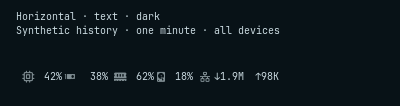
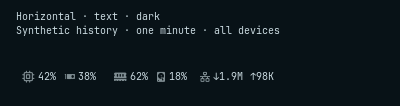
fix: keep bar readings paired and size GPU values by vendor

diff --git a/tests/qs/bar-ui.qml b/tests/qs/bar-ui.qml
@@ -33,6 +33,7 @@ ShellRoot {
       host.vertical = false; host.barSize = 26
       shared.gpuTopologyReady = true; shared.gpuListFailed = false
       shared.discreteGpuAvailable = true; shared.diskAvailable = true
+      shared.gpu = { vendor: "intel" }; shared.streamLive = true
       shared.applySettings({ segments: Model.BAR_SEGMENTS })
       shared.cpuPct = { nonIdle: 42 }; shared.memComp = { usedPct: 62 }
       shared.gpuDisplay = { pct: 38, estimated: false }; shared.diskRates = { utilPct: 18 }
@@ -151,11 +152,71 @@ ShellRoot {
           if (Math.abs(item.x-positions[i].x)>0.5 || Math.abs(item.y-positions[i].y)>0.5)
             console.error("QBARUI cell moved " + JSON.stringify({ metric: metric, value: value, before: positions[i], after: [item.x,item.y] }))
           fuzzyCompare(item.x, positions[i].x, 0.5); fuzzyCompare(item.y, positions[i].y, 0.5)
-          if (metric === "net") { assertFits(findChild(item, "barDown")); assertFits(findChild(item, "barUp")) }
-          else assertFits(findChild(item, "barValue"))
+          var readings = metric === "net" ? [findChild(item, "barDown"), findChild(item, "barUp")] : [findChild(item, "barValue")]
+          for (var reading of readings) {
+            assertFits(reading)
+            compare(reading.horizontalAlignment, data.vertical ? Text.AlignHCenter : Text.AlignLeft,
+              "values stay beside their own label/trend, with slack after the reading")
+          }
           if (data.vertical) verify(item.width <= host.barSize)
           if (data.style === "graph-text") verify(trend(first, metric).width <= (data.vertical ? host.barSize : Commons.Style.space(64)))
         }
+      }
+    }
+    function test_gpu_vendor_reservation_and_uniform_vertical_percentages_data() {
+      var cases = []
+      for (var style of ["text", "graph-text"]) for (var vertical of [false, true])
+        cases.push({ tag: style + " " + vertical, style: style, vertical: vertical })
+      return cases
+    }
+    function test_gpu_vendor_reservation_and_uniform_vertical_percentages(data) {
+      host.vertical = data.vertical
+      shared.persistSettings({ barStyle: data.style })
+      for (var size of [{ strip: 26, base: 12 }, { strip: 28, base: 12 }, { strip: 34, base: 16 }]) {
+        Commons.Style.applyShellValues({ "font.base-size": size.base })
+        host.barSize = size.strip
+        var dedicatedWidth = null
+        for (var vendor of ["amd", "nvidia", "intel"]) {
+          shared.gpu = { vendor: vendor }
+          shared.gpuDisplay = { pct: 100, estimated: false }
+          wait(vendor === "amd" || (!data.vertical && vendor === "intel") ? 200 : 20)
+          var gpuValue = findChild(cell(first, "gpu"), "barValue")
+          var cpuValue = findChild(cell(first, "cpu"), "barValue")
+          if (data.vertical) {
+            for (var metric of ["cpu", "mem", "disk"])
+              compare(findChild(cell(first, metric), "barValue").font.pixelSize, gpuValue.font.pixelSize,
+                "visible percentage cells use one font size")
+            if (vendor !== "intel") compare(gpuValue.font.pixelSize, Commons.Style.font.caption,
+              "AMD/NVIDIA do not shrink to reserve an unavailable estimate prefix")
+          } else if (vendor !== "intel") {
+            compare(gpuValue.width, cpuValue.width, "only Intel needs a wider percentage slot")
+            if (dedicatedWidth === null) dedicatedWidth = first.implicitWidth
+            else compare(first.implicitWidth, dedicatedWidth)
+          } else verify(gpuValue.width > cpuValue.width)
+          var width = first.implicitWidth, fontSize = gpuValue.font.pixelSize
+          var positions = first.visibleBarCells.map(function (metric) {
+            var item = cell(first, metric); return { x: item.x, y: item.y }
+          })
+          for (var pct of [null, 9, 99, 100]) {
+            for (var estimated of vendor === "intel" ? [false, true] : [false]) {
+              shared.gpuDisplay = pct === null ? null : { pct: pct, estimated: estimated }
+              wait(5)
+              compare(first.implicitWidth, width); compare(gpuValue.font.pixelSize, fontSize)
+              assertFits(gpuValue)
+              for (var i = 0; i < first.visibleBarCells.length; i++) {
+                var item = cell(first, first.visibleBarCells[i])
+                fuzzyCompare(item.x, positions[i].x, 0.5); fuzzyCompare(item.y, positions[i].y, 0.5)
+              }
+            }
+          }
+        }
+        // Intel remains selected, but a disabled GPU must not reduce the
+        // remaining percentages to make room for its estimate prefix.
+        shared.persistSettings({ segments: ["cpu", "memory", "disk", "network"] })
+        wait(20)
+        compare(findChild(cell(first, "cpu"), "barValue").font.pixelSize, Commons.Style.font.caption)
+        shared.persistSettings({ segments: Model.BAR_SEGMENTS })
+        wait(20)
       }
     }
     function test_icon_only_and_hardware_return_keep_order() {

diff --git a/BarWidget.qml b/BarWidget.qml
@@ -211,6 +211,10 @@ BarWidget {
   readonly property real outerPad: Commons.Style.spaceReal(6)
   readonly property int verticalSlot: root.bar ? root.bar.barSize : Commons.Style.bar.sizeVertical
   readonly property var trendPalette: Model.seriesPalette(String(Commons.Color.accent), String(barUrgent), String(barFg), String(barBg))
+  // Only Intel's frequency fallback can display an estimated percentage.
+  // Reserve it by device capability, so a measured/estimated sample change
+  // does not resize the cell.
+  readonly property bool reserveEstimatePrefix: root.gpu ? root.gpu.vendor === "intel" : false
 
   FontMetrics { id: captionFm; font.family: button.fontFamily; font.pixelSize: Commons.Style.font.caption; font.features: ({ "tnum": 1 }) }
   FontMetrics { id: glyphFm; font.family: button.fontFamily; font.pixelSize: root.glyphFontSize }
@@ -237,7 +241,7 @@ BarWidget {
   function valueReserveFor(metric) {
     if (captionFm.font.pixelSize <= 0) return 0
     if (metric === "net") return root.vertical ? rateReserve : rateReserve * 2 + rateGap
-    return Math.ceil(captionFm.advanceWidth(metric === "gpu" ? "~100%" : "100%"))
+    return Math.ceil(captionFm.advanceWidth(metric === "gpu" && reserveEstimatePrefix ? "~100%" : "100%"))
   }
   function cellReserveFor(metric) {
     var w = valueReserveFor(metric), labelWidth = labelWidthFor(metric)
@@ -247,8 +251,12 @@ BarWidget {
   }
   function valueFontSizeFor(metric) {
     if (!root.vertical) return Commons.Style.font.caption
+    // Keep every visible percentage at the same size. A hidden Intel GPU
+    // must not make CPU/Memory/Drives text smaller.
+    var reserve = metric === "net" ? rateReserve : valueReserveFor(
+      reserveEstimatePrefix && visibleBarCells.indexOf("gpu") >= 0 ? "gpu" : "cpu")
     return Math.max(1, Math.min(Commons.Style.font.caption,
-      Math.floor(Commons.Style.font.caption * Math.max(1, verticalSlot) / valueReserveFor(metric))))
+      Math.floor(Commons.Style.font.caption * Math.max(1, verticalSlot) / reserve)))
   }
   readonly property real reservedWidth: {
     var cells = root.visibleBarCells, width = 0
@@ -487,7 +495,7 @@ BarWidget {
         font.pixelSize: root.valueFontSizeFor(cell.metric)
         font.features: ({ "tnum": 1 })
         anchors.fill: parent
-        horizontalAlignment: root.vertical ? Text.AlignHCenter : Text.AlignRight
+        horizontalAlignment: root.vertical ? Text.AlignHCenter : Text.AlignLeft
         verticalAlignment: Text.AlignVCenter
         Behavior on color { ColorAnimation { duration: 320 } }
       }
@@ -502,7 +510,7 @@ BarWidget {
         font.features: ({ "tnum": 1 })
         width: root.vertical ? parent.width : root.rateReserve
         height: root.lineBoxHeight
-        horizontalAlignment: root.vertical ? Text.AlignHCenter : Text.AlignRight
+        horizontalAlignment: root.vertical ? Text.AlignHCenter : Text.AlignLeft
         verticalAlignment: Text.AlignVCenter
       }
       Text {
@@ -518,7 +526,7 @@ BarWidget {
         y: root.vertical ? root.lineBoxHeight : 0
         width: root.vertical ? parent.width : root.rateReserve
         height: root.lineBoxHeight
-        horizontalAlignment: root.vertical ? Text.AlignHCenter : Text.AlignRight
+        horizontalAlignment: root.vertical ? Text.AlignHCenter : Text.AlignLeft
         verticalAlignment: Text.AlignVCenter
       }
     }

diff --git a/tests/qs/bar-render.qml b/tests/qs/bar-render.qml
@@ -15,6 +15,7 @@ ShellRoot {
   property bool vertical: Quickshell.env("QUADRANT_RENDER_VERTICAL") === "1"
   property bool showSettings: Quickshell.env("QUADRANT_RENDER_TAB") === "settings"
   property bool missingGpu: Quickshell.env("QUADRANT_RENDER_MISSING_GPU") === "1"
+  property string gpuVendor: Model.parseEnumSetting(Quickshell.env("QUADRANT_RENDER_GPU_VENDOR"), ["intel", "amd", "nvidia"], "intel")
   property real stripSize: Number(Quickshell.env("QUADRANT_RENDER_BAR_SIZE")) || 26
   property var order: Model.barOrderFromSetting(Quickshell.env("QUADRANT_RENDER_ORDER") || "network,cpu,gpu,memory,disk")
   property int graphWidth: Number(Quickshell.env("QUADRANT_RENDER_GRAPH_WIDTH")) || 32
@@ -25,6 +26,7 @@ ShellRoot {
   BarFixture {
     id: shared
     discreteGpuAvailable: !harness.missingGpu
+    gpu: ({ vendor: harness.gpuVendor })
     settingsRaw: ({ barStyle: harness.style, barOrder: harness.order, barGraphWidth: harness.graphWidth,
       barLabels: harness.labels, segments: ["cpu", "gpu", "memory", "disk", "network"] })
   }
@@ -88,8 +90,12 @@ ShellRoot {
     id: captureTimer
     interval: harness.duration > 0 ? harness.duration * 1000 : 300
     onTriggered: {
+      var valueFonts = {}
+      if (typeof slot.valueFontSizeFor === "function")
+        for (var metric of slot.visibleBarCells) valueFonts[metric] = slot.valueFontSizeFor(metric)
       console.log("BAR_LAYOUT " + JSON.stringify({ width: slot.implicitWidth, height: slot.implicitHeight, cells: slot.visibleBarCells,
-        viewers: Object.keys(shared.viewers).length, storeTries: slot.storeTries, font: Commons.Style.font.caption }))
+        viewers: Object.keys(shared.viewers).length, storeTries: slot.storeTries, font: Commons.Style.font.caption,
+        gpuVendor: harness.gpuVendor, valueFonts: valueFonts }))
       win.contentItem.grabToImage(function (result) { result.saveToFile(harness.outPath); Qt.quit() })
     }
   }

diff --git a/docs/BAR_TRENDS.md b/docs/BAR_TRENDS.md
@@ -12,16 +12,23 @@ does not change the bar's minute window.
 ## Layout decisions
 
 Each segment reserves its widest value, including `100%`, the estimated GPU
-prefix, and bounded network rates. Both outer width and internal cell positions
-remain steady as samples change. A style, label, font, spacing, or enabled-set
-change can resize the widget. Graphs default to 32 logical pixels and are
-bounded to 16–64 before shell spacing is applied.
+prefix for Intel, and bounded network rates. Horizontal values align left
+beside their own glyph or trend, with unused space after the reading. A digit
+count change can move the percent sign within its slot; outer width and cell
+positions remain steady. A style, label, font, spacing, enabled-set, or selected
+GPU vendor change can resize the widget. Graphs default to 32 logical pixels
+and are bounded to 16–64 before shell spacing is applied.
 
 Vertical bars place each trend above its value and clamp its width to the
 strip. Network keeps separate down/up lines with complete units. A fixed font
 size based on the widest possible reading fits those values into the strip;
-it does not resize on each sample. At the captured 26 px strip, percentage
-values use 10 px text and network values use 8 px text.
+it does not resize on each sample. All visible percentage cells share one
+font size. A visible Intel GPU reserves `~100%`, including while its current
+reading is measured or missing; AMD and NVIDIA reserve `100%`. A hidden Intel
+GPU does not reduce the remaining cells' font size. In the captured 26 px strip
+with Intel selected, percentage and network values use 8 px text. With AMD or
+NVIDIA, percentages use 10 px and network values use 8 px. At the shell's
+default 28 px strip, those sizes are 9/9 px for Intel and 10/9 px for AMD/NVIDIA.
 
 The saved order contains all five resources independently of membership and
 hardware availability. Missing GPU/Drives cells disappear without erasing
@@ -45,10 +52,12 @@ harness. Click an image for its original size.
 
 | Style | Widget size | Capture |
 | --- | --- | --- |
-| Text | 267 × 26 px | [![Five segments, text only](screenshots/bar-text.png)](screenshots/bar-text.png) |
-| Graph + text | 442 × 26 px | [![Five segments with minute trends](screenshots/bar-trends.png)](screenshots/bar-trends.png) |
+| Text | 269 × 26 px | [![Five segments, text only](screenshots/bar-text.png)](screenshots/bar-text.png) |
+| Graph + text | 444 × 26 px | [![Five segments with minute trends](screenshots/bar-trends.png)](screenshots/bar-trends.png) |
 
-The vertical light example keeps both network units visible. The fallback
+The vertical light example uses Intel and keeps both network units visible.
+An [AMD vertical capture](screenshots/bar-vertical-amd.png) shows full-size
+percentage text when no estimate prefix is needed. The fallback
 example saves Network, Drives, CPU, GPU, Memory; with GPU absent, the visible
 order is Network, Drives, CPU, Memory, with one Drives cell.
 
@@ -63,7 +72,9 @@ The visual review covered dark, light, and monochrome palettes; both styles
 and orientations; present/absent GPU; and 16/64 px graph widths (48 captures),
 plus default-width, 1.25×/2× scaling, letter/no-label, and two-widget examples.
 Native interaction tests separately check font size 18 and spacing scales
-1/1.5/2, fixed positions, full value fit, and settings controls.
+1/1.5/2, fixed positions, full value fit, and settings controls. Vendor fixtures
+also cover both styles and orientations, 26/28/34 px strips, and a larger font,
+including measured/estimated transitions and a disabled Intel GPU.
 
 ## Rendering observations
 
@@ -71,23 +82,25 @@ Recorded 19 October 2026 on an Intel Core Ultra 9 185H, x86-64, Quickshell
 0.3.2 and Qt 6.12, using Qt's offscreen platform. Each case uses identical
 synthetic minute histories, five segments, canonical order, one-second
 updates, a three-second warmup, and a 10.01 s measurement. Runs were sequential.
-The baseline is the merged text widget at `a260bf2`; the model and harness
-remain identical across cases. The harness includes a hidden settings view
-in every case, so RSS is the whole Qt/harness process, not widget allocation.
+The baseline is the merged text widget at `a260bf2`; the feature measurements
+include the alignment and vendor-sizing corrections above. The model and
+harness remain identical across cases. The harness includes a hidden settings
+view in every case, so RSS includes the whole Qt/harness process.
 
 | Case | CPU time | One CPU core | Peak RSS | Peak child processes |
 | --- | --- | --- | --- | --- |
-| Merged text baseline | 0.01 s | 0.10% | 124.17 MiB | 0 |
-| Current text | 0.01 s | 0.10% | 121.54 MiB | 0 |
-| One graph widget | 0.02 s | 0.20% | 118.05 MiB | 0 |
-| Two graph widgets, shared service | 0.03 s | 0.30% | 126.57 MiB | 0 |
+| Merged text baseline | 0.01 s | 0.10% | 115.84 MiB | 0 |
+| Current text | 0.00 s | 0.00% | 120.00 MiB | 0 |
+| One graph widget | 0.02 s | 0.20% | 126.49 MiB | 0 |
+| Two graph widgets, shared service | 0.03 s | 0.30% | 126.83 MiB | 0 |
 
 The local comparison budget for future runs on this fixture and machine is
 less than 1% of one core at 1 Hz, no added child processes, and at most 10 MiB
 RSS growth for the second graph widget. These observations fit that budget;
-CPU sampling has 0.01 s resolution, and allocator/cache variation makes the
-single-widget RSS figures non-monotonic. They do not establish a memory saving.
-The observed second-widget RSS increase is 8.52 MiB.
+CPU sampling has 0.01 s resolution, so the text measurement's 0.00 s is below
+that resolution. Allocator/cache variation affects separate processes; RSS
+differences do not establish per-widget allocations. The observed
+second-widget RSS increase is 0.34 MiB.
 
 This measures UI rendering only. It does not establish full sampler cost,
 collection duration, live sample gaps, layer-shell behavior on two physical

diff --git a/docs/DEVELOPMENT.md b/docs/DEVELOPMENT.md
@@ -160,15 +160,16 @@ height or covers a curve, including unknown and differently sized values.
 At 320/440 px, font size 18 and spacing scales 1/1.5/2, axes, time labels, duration controls and readouts
 stay inside the graph. Both load-patch modes run.
 
-`qs-bar-ui.sh` runs 44 native cases in each load-patch mode. Two actual widgets
+`qs-bar-ui.sh` runs 48 native cases in each load-patch mode. Two actual widgets
 resolve the same synthetic service and histories, with no embedded Store or
 extra collectors. Checks cover all values through 100%, estimated GPU prefixes,
 compact rate extremes, horizontal/vertical styles, glyph/letter/no labels,
-live font and spacing changes, fixed segment positions, dynamic click-target
-registration, icon-only mode, scale tooltips/offline history, and hardware
+left-aligned horizontal readings, uniform vertical percentage fonts, Intel-only
+estimate space, live font and spacing changes, fixed segment positions,
+dynamic click-target registration, icon-only mode, scale tooltips/offline history, and hardware
 loss/return. Settings tests use mouse and keyboard ordering, retained focus,
-effective Drives switches, style/width/reset, and persistence through the real Store, including QML's
-initial QVariantList settings. The panel is a small contract stand-in; these
+effective Drives switches, style/width/reset, and persistence through the real
+Store, including QML's initial QVariantList settings. The panel is a small contract stand-in; these
 offscreen cases establish routing, not layer-shell popup placement. Pure
 tests exercise all 120 segment orders through fallback and hardware recovery.
 
@@ -253,11 +254,19 @@ from `BarFixture.qml`, one shared service, isolated runtime/state, and a panel
 contract stand-in. It fails on QML runtime errors. Its defaults show all five
 segments with Network first; `QUADRANT_RENDER_ORDER` accepts comma-separated
 segment names. `QUADRANT_RENDER_GRAPH_WIDTH`, `QUADRANT_RENDER_LABELS`,
-`QUADRANT_RENDER_BAR_SIZE`, `QUADRANT_RENDER_MISSING_GPU=1`, and
+`QUADRANT_RENDER_BAR_SIZE`, `QUADRANT_RENDER_GPU_VENDOR=intel|amd|nvidia`,
+`QUADRANT_RENDER_MISSING_GPU=1`, and
 `QUADRANT_RENDER_MONITORS=2` select additional cases. Use
 `QUADRANT_RENDER_TAB=settings` for the settings view. Palettes and device
 scaling use the same variables as the tab renderer. These are process-local
 fixtures and never change installed settings.
+
+The manifest uses the shell's existing `multiselect` array metadata for
+`barOrder`; the installed shell does not generate plugin settings controls
+from it. The full order is edited with panel arrows or the CLI. A future
+schema-generated form needs an ordering control here, since removing a name
+from this list appends it during normalization. Membership belongs to
+`segments`. The schema description makes this distinction explicit.
 
 The benchmark applies identical 1 Hz synthetic readings and samples the
 Quickshell process's CPU time, RSS, and child count after a three-second warmup.

diff --git a/docs/SETTINGS.md b/docs/SETTINGS.md
@@ -64,9 +64,9 @@ defaults are omitted when Quadrant saves. The helper scripts check their argumen
 
 In **Bar segments**, switches select what appears and the up/down arrows save
 its order. Disabled resources and missing devices remain in the ordered list.
-Moving one keeps keyboard focus on that resource's movement control. The
-manifest's list field declares the setting's array type; use the panel arrows
-or an ordered CLI array to change position.
+Moving one keeps keyboard focus on that resource's movement control. Use the
+panel arrows or an ordered CLI array to change position; use the switches
+or `segments` to enable or disable resources.
 
 `barOrder` keeps the first occurrence of each recognized segment, drops unknown
 names, and appends missing names in canonical order: CPU, GPU, Memory, Drives,
@@ -79,9 +79,11 @@ the canonical order, and the default enabled set.
 
 Choose **graph + text** under **Appearance** to add trends. Trend width applies
 only in that style; the stored choice survives returning to text. Every style
-reserves the widest value before rendering, including the estimated GPU
-prefix and both compact network rates. In a vertical bar, the plot sits above
-its value and text uses a fixed font size chosen to fit the available strip.
+reserves the widest value before rendering, including Intel's estimated GPU
+prefix and both compact network rates. Horizontal values stay beside their own
+labels or trends, with spare width after each reading. In a vertical bar, the
+plot sits above its value and all visible percentages share a fixed font size
+chosen to fit the available strip; network rates fit independently.
 The bar's minute window does not follow the panel's **1 hour** selection.
 
 ```sh

diff --git a/CHANGELOG.md b/CHANGELOG.md
@@ -34,6 +34,9 @@
 
 ### Fixed
 
+- Horizontal bar values stay beside their own labels and trends within fixed
+  slots. Only Intel reserves the GPU estimate prefix, and visible vertical
+  percentage values share a font size without shrinking AMD/NVIDIA needlessly.
 - Compact network rates promote before rounding exceeds their reserved width.
   Typed QML list settings are read correctly during initial object creation.
   The Drives switch can enable an explicit segment when GPU is disabled.
